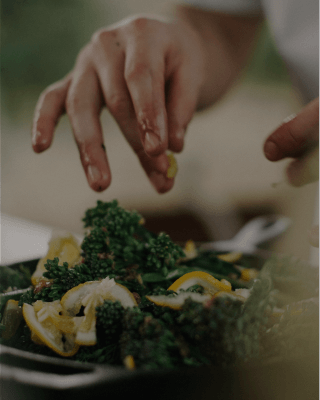
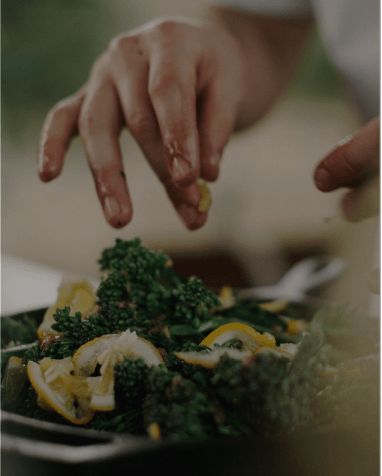
teste commit

Changed region(s): [[0.9688, 0.0, 1.0, 1.0]]

diff --git a/css/sessoes/servicos.css b/css/sessoes/servicos.css
@@ -1,134 +1,16 @@
 .item_servico {
   grid-column: 1 / -1;
-  position: relative;
+  background: gray;
 }
 
 #organico,
 #receitas,
 #cursos {
-  max-width: 320px;
-  height: 400px;
+  max-width: 430px;
+  height: 538px;
 }
 
 #organico {
-  background: url("../../img/servicos/organico_1.png");
-}
-
-#receitas {
-  background: url("../../img/servicos/receitas_1.png");
-}
-
-#cursos {
-  background: url("../../img/servicos/cursos_1.png");
-}
-
-.item_servico h2 {
-  font-family: "Red Hat Display", sans-serif;
-  font-size: 36px;
-  font-weight: 400;
-  color: #ffffff;
-  text-transform: uppercase;
-  letter-spacing: 6px;
-  text-align: center;
-  margin-top: 180px;
-}
-
-@keyframes mostrar-texto {
-  from {
-    opacity: 0;
-  }
-  to {
-    opacity: 1;
-  }
-}
-
-.descricao {
-  background: #533100;
-  position: absolute;
-  top: 0;
-  height: 400px;
-  width: 100%;
-  display: none;
-  flex-direction: column;
-  justify-content: center;
-  align-items: center;
-}
-
-.descricao p {
-  color: #fffaf0;
-  font-family: "Assistant", sans-serif;
-  font-size: 20px;
-  font-weight: 600;
-  max-width: 280px;
-  text-align: center;
-  line-height: 1.6;
-}
-
-.descricao p:first-child {
-  margin-bottom: 20px;
-}
-
-[data-descricao="texto_receitas"] p:first-child {
-  margin-bottom: 0px;
-}
-
-.icone_descricao {
-  display: block;
-  width: 20px;
-  height: 16px;
-  color: #ffffff;
-  border-top: 2px solid currentColor;
-  position: absolute;
-  z-index: 200;
-  top: 22px;
-  left: 20px;
-  cursor: pointer;
-}
-
-.icone_descricao::before {
-  content: "";
-  display: block;
-  margin-top: 6px;
-  height: 2px;
-  width: 70%;
-  background: currentColor;
-}
-
-.icone_descricao::after {
-  content: "";
-  display: block;
-  margin-top: 6px;
-  height: 2px;
-  width: 50%;
-  background: currentColor;
-  position: relative;
-  transition: transform 0.3s ease;
-}
-
-[data-descricao="icone_organico"].mudarIcone,
-[data-descricao="icone_receitas"].mudarIcone,
-[data-descricao="icone_cursos"].mudarIcone {
-  border-top-color: transparent;
-}
-
-[data-descricao="icone_organico"].mudarIcone::before,
-[data-descricao="icone_receitas"].mudarIcone::before,
-[data-descricao="icone_cursos"].mudarIcone::before {
-  width: 100%;
-  transform: rotate(45deg);
-}
-
-[data-descricao="icone_organico"].mudarIcone::after,
-[data-descricao="icone_receitas"].mudarIcone::after,
-[data-descricao="icone_cursos"].mudarIcone::after {
-  width: 100%;
-  top: -8px;
-  transform: rotate(135deg);
-}
-
-[data-descricao="texto_organico"].mostrarTexto,
-[data-descricao="texto_receitas"].mostrarTexto,
-[data-descricao="texto_cursos"].mostrarTexto {
-  display: flex;
-  animation: mostrar-texto 0.3s ease;
+  background: url("../../img/servicos/organico_1.png") center center;
+  background-size: cover;
 }

diff --git a/index.html b/index.html
@@ -63,32 +63,7 @@
   <!--SERVIÇOS-->
   <section class="servicos" id="servicos">
     <div class="item_servico" id="organico">
-      <span class="icone_descricao" data-descricao="icone_organico"></span>
-      <h2>Orgânico</h2>
-      <div class="descricao" data-descricao="texto_organico">
-        <p>Busco sempre utilizar ingredientes naturais e orgânicos em minhas receitas.</p>
-        <p>Produzo alguns em minha horta,
-          e outros vou adquirindo de produtores locais.</p>
-      </div>
-    </div>
 
-    <div class="item_servico" id="receitas">
-      <span class="icone_descricao" data-descricao="icone_receitas"></span>
-      <h2>Receitas</h2>
-      <div class="descricao" data-descricao="texto_receitas">
-        <p>Uma vez que tenho os melhores ingredientes em mãos, elaboro as receitas tendo como principal objetivo uma
-          alimentação saudável.</p>
-      </div>
-    </div>
-
-    <div class="item_servico" id="cursos">
-      <span class="icone_descricao" data-descricao="icone_cursos"></span>
-      <h2>Cursos</h2>
-      <div class="descricao" data-descricao="texto_cursos">
-        <p>Além disso, ensino sobre como fazer essas receitas, e várias outras exclusivas nesses cursos que leciono.
-          Alguns deles são pagos, outros são aulões gratuitos... </p>
-        <p>Seria interessante dar uma conferida você mesmo!</p>
-      </div>
     </div>
   </section>
   <!--SERVIÇOS-->
